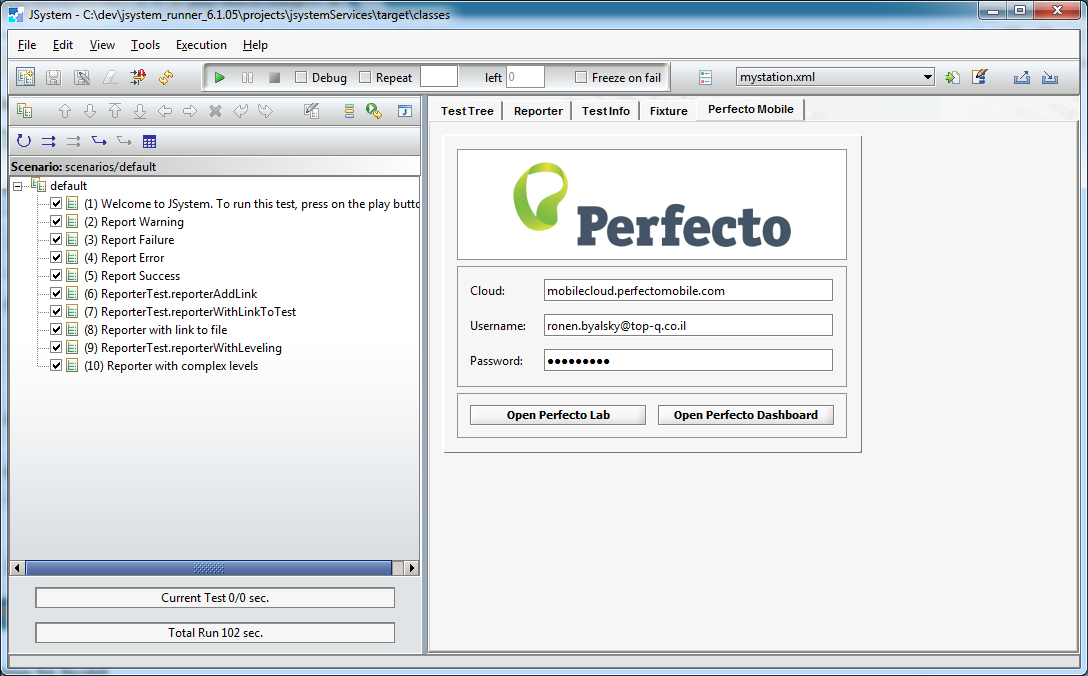
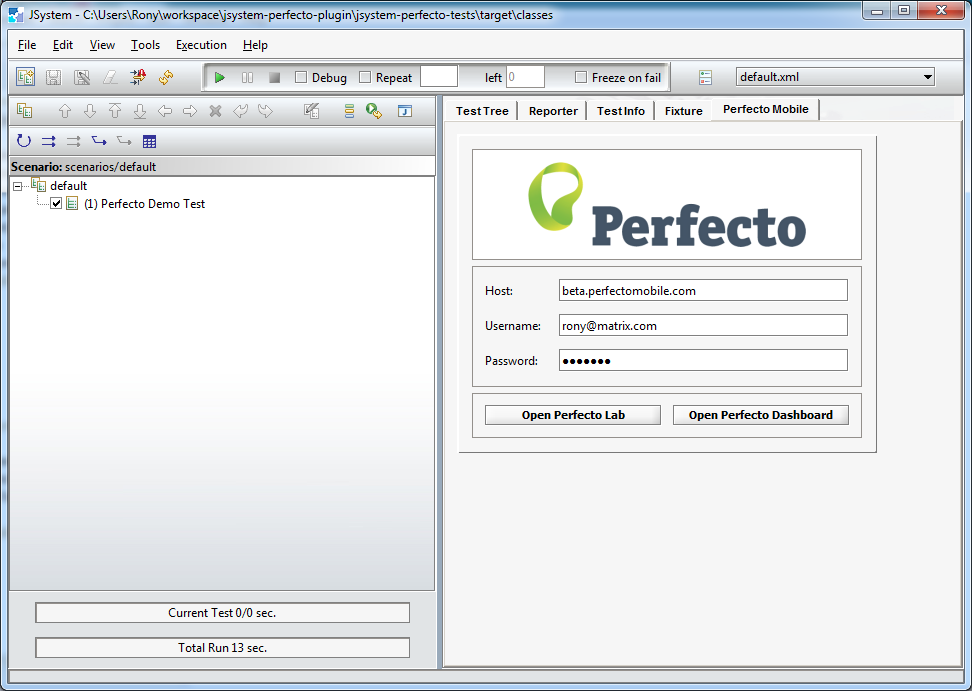
renamed 'Cloud' to 'Host'

Changed region(s): [[0.0, 0.0, 1.0, 1.0]]

diff --git a/jsystem-perfecto-plugin/src/main/java/jsystem/perfecto/plugin/PerfectoPanel.java b/jsystem-perfecto-plugin/src/main/java/jsystem/perfecto/plugin/PerfectoPanel.java
@@ -210,7 +210,7 @@ public class PerfectoPanel extends javax.swing.JPanel {
 			
 			try {
 				// expecting an exception to be thrown here if Lab is still not running
-				PerfectoLabClient.getCloud();
+				PerfectoLabConnectorClient.getHost();
 				
 				// showing the warning message because the exception wasn't thrown
 				showWarningDialog("Perfecto Lab is already running", "Can't open more than one instance of Perfecto Lab");
@@ -240,7 +240,7 @@ public class PerfectoPanel extends javax.swing.JPanel {
 			
 			try {
 				// expecting an exception to be thrown here if Dashboard is still not running
-				PerfectoDashboardClient.getCloud();
+				PerfectoDashboardConnectorClient.getHost();
 				
 				// showing the warning message because the exception wasn't thrown
 				showWarningDialog("Perfecto Dashboard is already running", "Can't open more than one instance of Perfecto Dashboard");
@@ -284,7 +284,7 @@ public class PerfectoPanel extends javax.swing.JPanel {
 	private boolean validatePerfectoProperties() {
 		
 		if (hostTextField.getText().trim().equals("")) {
-			showWarningDialog("Can't launch Perfecto Lab/Dashboard", "Cloud field can't be empty");
+			showWarningDialog("Can't launch Perfecto Lab/Dashboard", "Host field can't be empty");
 			return false;
 		}
 		else if (usernameTextField.getText().trim().equals("")) {

diff --git a/jsystem-perfecto-plugin/src/main/java/jsystem/perfecto/plugin/PerfectoLabConnectorClient.java b/jsystem-perfecto-plugin/src/main/java/jsystem/perfecto/plugin/PerfectoLabConnectorClient.java
@@ -5,20 +5,16 @@ import java.io.DataOutputStream;
 import java.io.InputStreamReader;
 import java.net.Socket;
 
-public class PerfectoLabClient {
+public class PerfectoLabConnectorClient {
 
 	private static final int SERVER_PORT = 3456;
 
-	public static String getCloud() throws Exception {
-		return requestToServer("getCloud");
+	public static String getHost() throws Exception {
+		return requestToServer("getHost");
 	}
 	
 	public static String getExecutionId() throws Exception {
 		return requestToServer("getExecutionId");
-	}
-	
-	public static String getCloudAndExecutionId() throws Exception {
-		return requestToServer("getCloudAndExecutionId");
 	}
 	
 	private static String requestToServer(String request) throws Exception {

diff --git a/perfecto-mobile-browser/src/main/java/org/jsystem/perfecto/connector/PerfectoDashboardConnectorServer.java b/perfecto-mobile-browser/src/main/java/org/jsystem/perfecto/connector/PerfectoDashboardConnectorServer.java
@@ -111,12 +111,12 @@ public class PerfectoDashboardConnectorServer implements Runnable {
 		System.out.println("[PerfectoDashboardServer]: " + str);
 	}
 	
-	public static String getPerfectoCloud() {
+	public static String getPerfectoHost() {
 		return host;
 	}
 
-	public static void setPerfectoCloud(String perfectoCloud) {
-		PerfectoDashboardConnectorServer.host = perfectoCloud;
+	public static void setPerfectoHost(String perfectoHost) {
+		PerfectoDashboardConnectorServer.host = perfectoHost;
 	}
 
 	public static int getServerPort() {

diff --git a/jsystem-perfecto-plugin/src/main/java/jsystem/perfecto/plugin/PerfectoDashboardConnectorClient.java b/jsystem-perfecto-plugin/src/main/java/jsystem/perfecto/plugin/PerfectoDashboardConnectorClient.java
@@ -5,12 +5,12 @@ import java.io.DataOutputStream;
 import java.io.InputStreamReader;
 import java.net.Socket;
 
-public class PerfectoDashboardClient {
+public class PerfectoDashboardConnectorClient {
 
 	private static final int SERVER_PORT = 3457;
 
-	public static String getCloud() throws Exception {
-		return requestToServer("getCloud");
+	public static String getHost() throws Exception {
+		return requestToServer("getHost");
 	}
 	
 	private static String requestToServer(String request) throws Exception {

diff --git a/jsystem-perfecto-tests/src/main/java/jsystem/perfecto/test/JSystemPerfectoTest.java b/jsystem-perfecto-tests/src/main/java/jsystem/perfecto/test/JSystemPerfectoTest.java
@@ -17,7 +17,7 @@ import junit.framework.SystemTestCase4;
  */
 public abstract class JSystemPerfectoTest extends SystemTestCase4 {
 
-	// Perfecto Cloud properties - loaded from perfecto/perfecto.properties file
+	// Perfecto Mobile Cloud properties - loaded from perfecto/perfecto.properties file
 	protected String perfectoHost;
 	protected String perfectoUsername;
 	protected String perfectoPassword;

diff --git a/perfecto-mobile-browser/src/main/java/org/jsystem/perfecto/connector/PerfectoDashboardConnectorClient.java b/perfecto-mobile-browser/src/main/java/org/jsystem/perfecto/connector/PerfectoDashboardConnectorClient.java
@@ -9,7 +9,7 @@ public class PerfectoDashboardConnectorClient {
 
 	private static final int SERVER_PORT = 3457;
 
-	public static String getCloud() throws Exception {
+	public static String getHost() throws Exception {
 		return requestToServer("getHost");
 	}
 	
